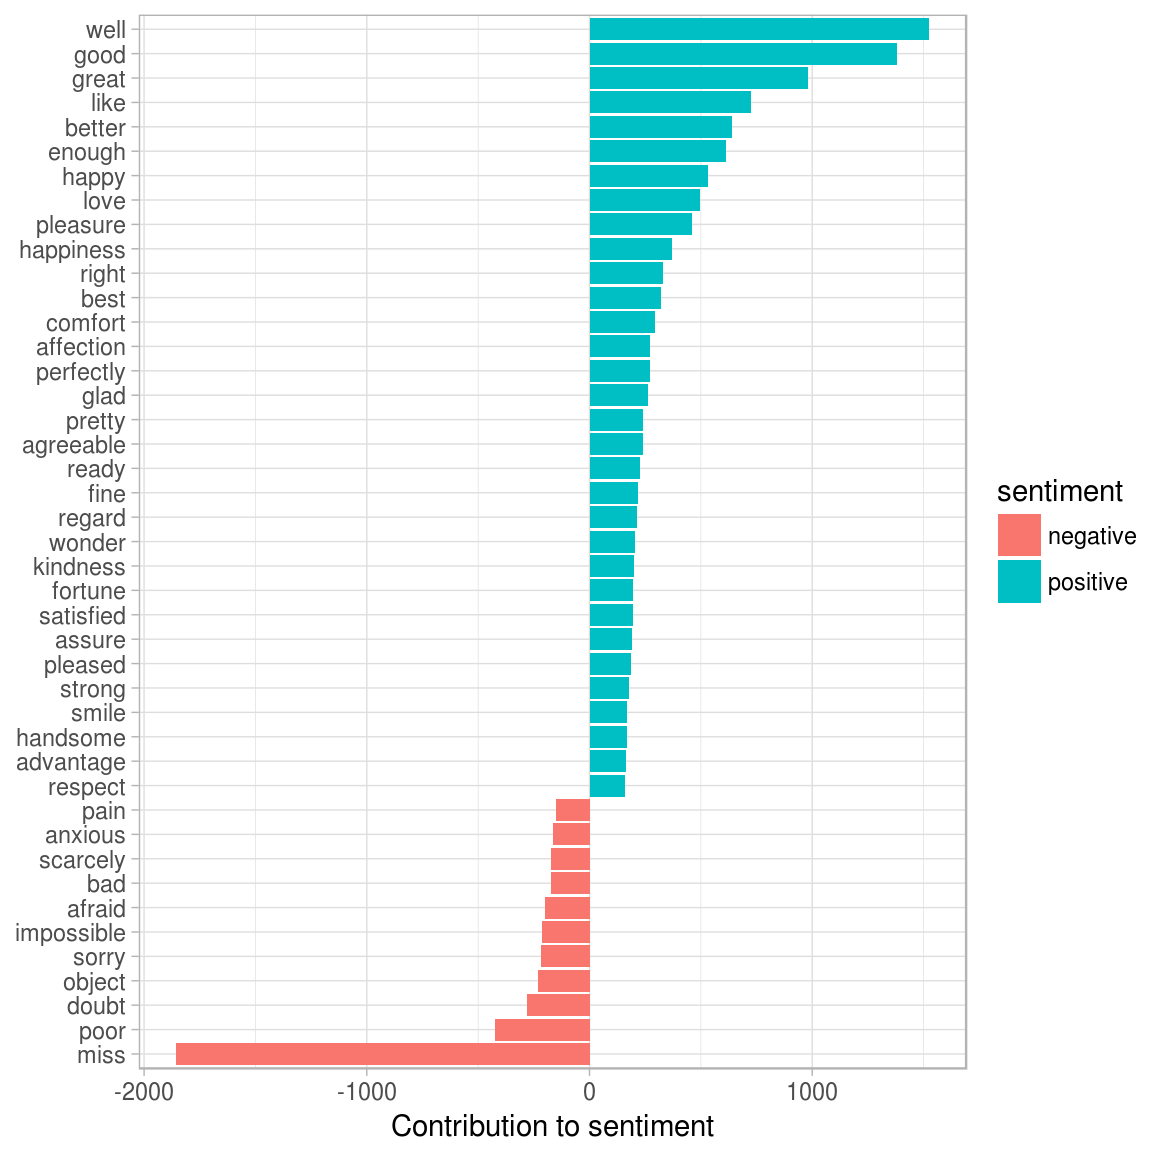
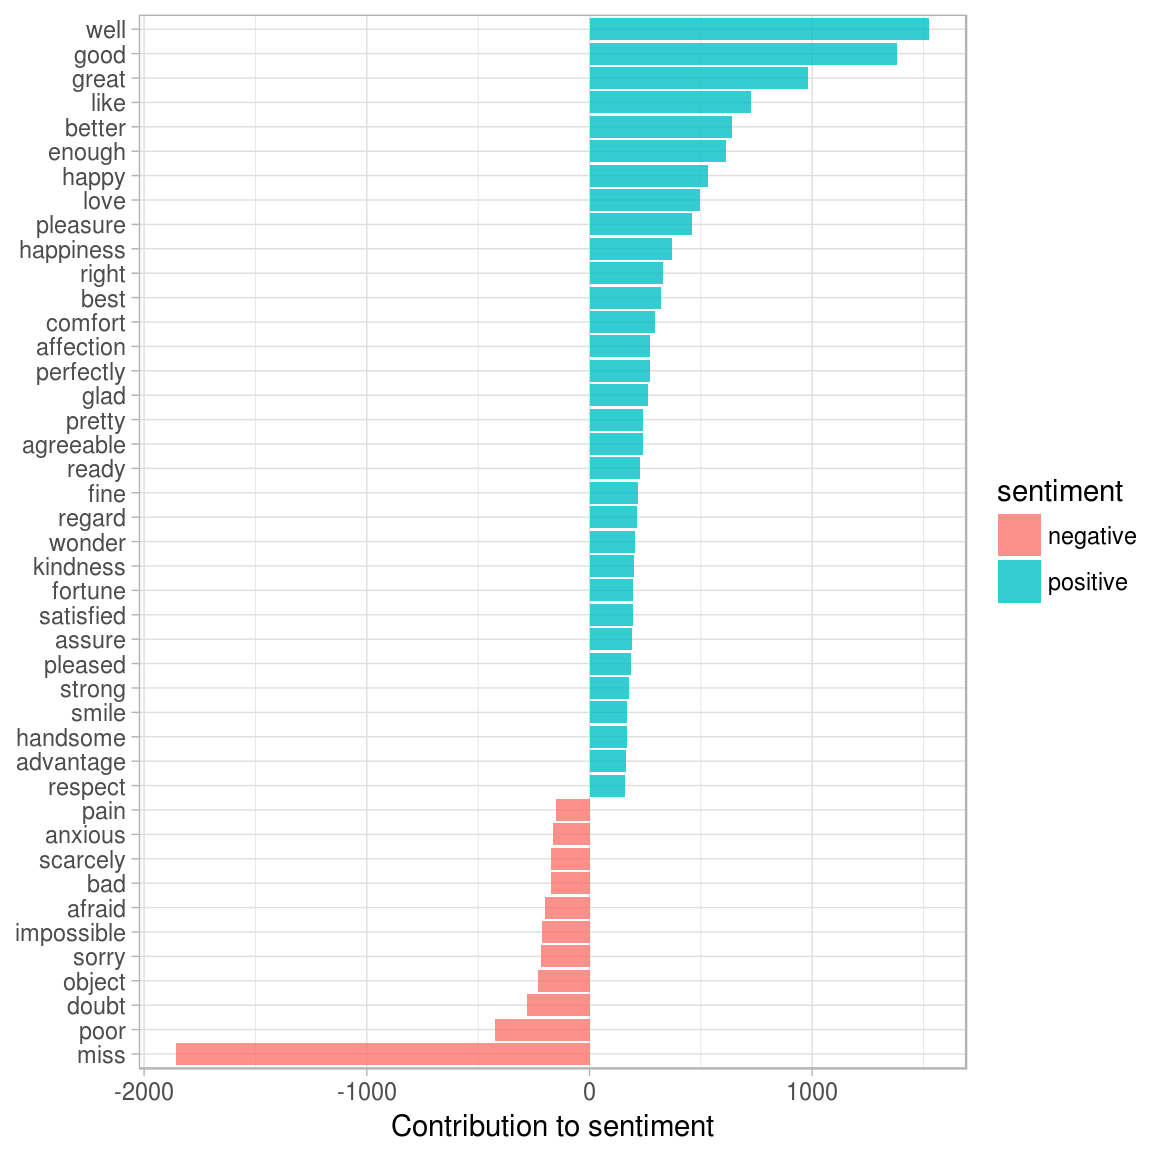
Updating book (104)

Changed region(s): [[0.1562, 0.0, 0.8125, 0.9375], [0.8438, 0.4375, 0.9062, 0.5312]]

diff --git a/sentiment.html b/sentiment.html
@@ -283,7 +283,7 @@ janeaustensentiment &lt;-<span class="st"> </span>tidy_books %&gt;%
 <div class="sourceCode"><pre class="sourceCode r"><code class="sourceCode r"><span class="kw">library</span>(ggplot2)
 
 <span class="kw">ggplot</span>(janeaustensentiment, <span class="kw">aes</span>(index, sentiment, <span class="dt">fill =</span> book)) +
-<span class="st">        </span><span class="kw">geom_bar</span>(<span class="dt">stat =</span> <span class="st">&quot;identity&quot;</span>, <span class="dt">show.legend =</span> <span class="ot">FALSE</span>) +
+<span class="st">        </span><span class="kw">geom_bar</span>(<span class="dt">alpha =</span> <span class="fl">0.8</span>, <span class="dt">stat =</span> <span class="st">&quot;identity&quot;</span>, <span class="dt">show.legend =</span> <span class="ot">FALSE</span>) +
 <span class="st">        </span><span class="kw">facet_wrap</span>(~book, <span class="dt">ncol =</span> <span class="dv">2</span>, <span class="dt">scales =</span> <span class="st">&quot;free_x&quot;</span>)</code></pre></div>
 <p><img src="03-sentiment-analysis_files/figure-html/sentimentplot-1.png" width="864" /></p>
 <p>We can see here how the plot of each novel changes toward more positive or negative sentiment over the trajectory of the story.</p>
@@ -318,7 +318,7 @@ bing_word_counts</code></pre></div>
 <span class="st">  </span><span class="kw">mutate</span>(<span class="dt">n =</span> <span class="kw">ifelse</span>(sentiment ==<span class="st"> &quot;negative&quot;</span>, -n, n)) %&gt;%
 <span class="st">  </span><span class="kw">mutate</span>(<span class="dt">word =</span> <span class="kw">reorder</span>(word, n)) %&gt;%
 <span class="st">  </span><span class="kw">ggplot</span>(<span class="kw">aes</span>(word, n, <span class="dt">fill =</span> sentiment)) +
-<span class="st">  </span><span class="kw">geom_bar</span>(<span class="dt">stat =</span> <span class="st">&quot;identity&quot;</span>) +
+<span class="st">  </span><span class="kw">geom_bar</span>(<span class="dt">alpha =</span> <span class="fl">0.8</span>, <span class="dt">stat =</span> <span class="st">&quot;identity&quot;</span>) +
 <span class="st">  </span><span class="kw">labs</span>(<span class="dt">y =</span> <span class="st">&quot;Contribution to sentiment&quot;</span>,
        <span class="dt">x =</span> <span class="ot">NULL</span>) +
 <span class="st">  </span><span class="kw">coord_flip</span>()</code></pre></div>
@@ -336,7 +336,7 @@ tidy_books %&gt;%
 <span class="st">  </span><span class="kw">count</span>(word) %&gt;%
 <span class="st">  </span><span class="kw">with</span>(<span class="kw">wordcloud</span>(word, n, <span class="dt">max.words =</span> <span class="dv">100</span>))</code></pre></div>
 <p><img src="03-sentiment-analysis_files/figure-html/firstwordcloud-1.png" width="576" /></p>
-<p>In other functions, such as <code>comparison.cloud</code>, you may need to turn it into a matrix with reshape2’s <code>acast</code>. Let’s do the sentiment analysis to tag positive and negative words using an inner join, then find the most common positive and negative words. Until the step where we need to send the data to <code>comparison.cloud</code>, this can all be done with joins, piping, and dplyr because our data is in tidy format.</p>
+<p>In other functions, such as <code>comparison.cloud</code>, you may need to turn the data frame into a matrix with reshape2’s <code>acast</code>. Let’s do the sentiment analysis to tag positive and negative words using an inner join, then find the most common positive and negative words. Until the step where we need to send the data to <code>comparison.cloud</code>, this can all be done with joins, piping, and dplyr because our data is in tidy format.</p>
 <div class="sourceCode"><pre class="sourceCode r"><code class="sourceCode r"><span class="kw">library</span>(reshape2)
 
 tidy_books %&gt;%
@@ -362,20 +362,24 @@ tidy_books %&gt;%
 <p>The sentence tokenizing does seem to have a bit of trouble with UTF-8 encoded text, especially with sections of dialogue; it does much better with punctuation in ASCII. One possibility, if this is important, is to try using <code>iconv()</code>, with something like <code>iconv(text, to = 'latin1')</code> in a mutate statement before unnesting.</p>
 <p>Another option in <code>unnest_tokens</code> is to split into tokens using a regex pattern. We could use this, for example, to split the text of Jane Austen’s novels into a data frame by chapter.</p>
 <div class="sourceCode"><pre class="sourceCode r"><code class="sourceCode r">austen_chapters &lt;-<span class="st"> </span><span class="kw">austen_books</span>() %&gt;%
+<span class="st">  </span><span class="kw">mutate</span>(<span class="dt">book =</span> <span class="kw">factor</span>(book, <span class="dt">levels =</span> <span class="kw">unique</span>(book))) %&gt;%
 <span class="st">  </span><span class="kw">group_by</span>(book) %&gt;%
 <span class="st">  </span><span class="kw">unnest_tokens</span>(chapter, text, <span class="dt">token =</span> <span class="st">&quot;regex&quot;</span>, 
                 <span class="dt">pattern =</span> <span class="st">&quot;Chapter|CHAPTER [</span><span class="ch">\\</span><span class="st">dIVXLC]&quot;</span>) %&gt;%
 <span class="st">  </span><span class="kw">ungroup</span>()
-austen_chapters %&gt;%<span class="st"> </span><span class="kw">group_by</span>(book) %&gt;%<span class="st"> </span><span class="kw">summarise</span>(<span class="dt">chapters =</span> <span class="kw">n</span>())</code></pre></div>
+
+austen_chapters %&gt;%<span class="st"> </span>
+<span class="st">  </span><span class="kw">group_by</span>(book) %&gt;%<span class="st"> </span>
+<span class="st">  </span><span class="kw">summarise</span>(<span class="dt">chapters =</span> <span class="kw">n</span>())</code></pre></div>
 <pre><code>## # A tibble: 6 × 2
 ##                  book chapters
 ##                &lt;fctr&gt;    &lt;int&gt;
-## 1                Emma       56
-## 2      Mansfield Park       49
-## 3    Northanger Abbey       32
-## 4          Persuasion       25
-## 5   Pride &amp; Prejudice       62
-## 6 Sense &amp; Sensibility       51</code></pre>
+## 1 Sense &amp; Sensibility       51
+## 2   Pride &amp; Prejudice       62
+## 3      Mansfield Park       49
+## 4                Emma       56
+## 5    Northanger Abbey       32
+## 6          Persuasion       25</code></pre>
 <p>We have recovered the correct number of chapters in each novel (plus an “extra” row for each novel title). In this data frame, each row corresponds to one chapter.</p>
 <p>Near the beginning of this vignette, we used a similar regex to find where all the chapters were in Austen’s novels for a tidy data frame organized by one-word-per-row. We can use tidy text analysis to ask questions such as what are the most negative chapters in each of Jane Austen’s novels? First, let’s get the list of negative words from the Bing lexicon. Second, let’s make a dataframe of how many words are in each chapter so we can normalize for the length of chapters. Then, let’s find the number of negative words in each chapter and divide by the total words in each chapter. Which chapter has the highest proportion of negative words?</p>
 <div class="sourceCode"><pre class="sourceCode r"><code class="sourceCode r">bingnegative &lt;-<span class="st"> </span>sentiments %&gt;%
@@ -386,24 +390,24 @@ wordcounts &lt;-<span class="st"> </span>tidy_books %&gt;%
 <span class="st">  </span><span class="kw">summarize</span>(<span class="dt">words =</span> <span class="kw">n</span>())
 
 tidy_books %&gt;%
+<span class="st">  </span><span class="kw">mutate</span>(<span class="dt">book =</span> <span class="kw">factor</span>(book, <span class="dt">levels =</span> <span class="kw">unique</span>(book))) %&gt;%
 <span class="st">  </span><span class="kw">semi_join</span>(bingnegative) %&gt;%
 <span class="st">  </span><span class="kw">group_by</span>(book, chapter) %&gt;%
 <span class="st">  </span><span class="kw">summarize</span>(<span class="dt">negativewords =</span> <span class="kw">n</span>()) %&gt;%
 <span class="st">  </span><span class="kw">left_join</span>(wordcounts, <span class="dt">by =</span> <span class="kw">c</span>(<span class="st">&quot;book&quot;</span>, <span class="st">&quot;chapter&quot;</span>)) %&gt;%
 <span class="st">  </span><span class="kw">mutate</span>(<span class="dt">ratio =</span> negativewords/words) %&gt;%
 <span class="st">  </span><span class="kw">filter</span>(chapter !=<span class="st"> </span><span class="dv">0</span>) %&gt;%
-<span class="st">  </span><span class="kw">top_n</span>(<span class="dv">1</span>)</code></pre></div>
-<pre><code>## Source: local data frame [6 x 5]
-## Groups: book [6]
-## 
+<span class="st">  </span><span class="kw">top_n</span>(<span class="dv">1</span>) %&gt;%
+<span class="st">  </span>ungroup</code></pre></div>
+<pre><code>## # A tibble: 6 × 5
 ##                  book chapter negativewords words      ratio
-##                &lt;fctr&gt;   &lt;int&gt;         &lt;int&gt; &lt;int&gt;      &lt;dbl&gt;
-## 1                Emma      15           151  3340 0.04520958
-## 2      Mansfield Park      46           173  3685 0.04694708
-## 3    Northanger Abbey      21           149  2982 0.04996647
-## 4          Persuasion       4            62  1807 0.03431101
-## 5   Pride &amp; Prejudice      34           111  2104 0.05275665
-## 6 Sense &amp; Sensibility      43           161  3405 0.04728341</code></pre>
+##                 &lt;chr&gt;   &lt;int&gt;         &lt;int&gt; &lt;int&gt;      &lt;dbl&gt;
+## 1 Sense &amp; Sensibility      43           161  3405 0.04728341
+## 2   Pride &amp; Prejudice      34           111  2104 0.05275665
+## 3      Mansfield Park      46           173  3685 0.04694708
+## 4                Emma      15           151  3340 0.04520958
+## 5    Northanger Abbey      21           149  2982 0.04996647
+## 6          Persuasion       4            62  1807 0.03431101</code></pre>
 <p>These are the chapters with the most sad words in each book, normalized for number of words in the chapter. What is happening in these chapters? In Chapter 43 of <em>Sense and Sensibility</em> Marianne is seriously ill, near death, and in Chapter 34 of <em>Pride and Prejudice</em> Mr. Darcy proposes for the first time (so badly!). Chapter 46 of <em>Mansfield Park</em> is almost the end, when everyone learns of Henry’s scandalous adultery, Chapter 15 of <em>Emma</em> is when horrifying Mr. Elton proposes, and in Chapter 21 of <em>Northanger Abbey</em> Catherine is deep in her Gothic faux fantasy of murder, etc. Chapter 4 of <em>Persuasion</em> is when the reader gets the full flashback of Anne refusing Captain Wentworth and how sad she was and what a terrible mistake she realized it to be.</p>
 
 </div>

diff --git a/03-sentiment-analysis.md b/03-sentiment-analysis.md
@@ -112,7 +112,7 @@ Now we can plot these sentiment scores across the plot trajectory of each novel.
 library(ggplot2)
 
 ggplot(janeaustensentiment, aes(index, sentiment, fill = book)) +
-        geom_bar(stat = "identity", show.legend = FALSE) +
+        geom_bar(alpha = 0.8, stat = "identity", show.legend = FALSE) +
         facet_wrap(~book, ncol = 2, scales = "free_x")
 ```
 
@@ -162,7 +162,7 @@ bing_word_counts %>%
   mutate(n = ifelse(sentiment == "negative", -n, n)) %>%
   mutate(word = reorder(word, n)) %>%
   ggplot(aes(word, n, fill = sentiment)) +
-  geom_bar(stat = "identity") +
+  geom_bar(alpha = 0.8, stat = "identity") +
   labs(y = "Contribution to sentiment",
        x = NULL) +
   coord_flip()
@@ -190,7 +190,7 @@ tidy_books %>%
 
 <img src="03-sentiment-analysis_files/figure-html/firstwordcloud-1.png" width="576" />
 
-In other functions, such as `comparison.cloud`, you may need to turn it into a matrix with reshape2's `acast`. Let's do the sentiment analysis to tag positive and negative words using an inner join, then find the most common positive and negative words. Until the step where we need to send the data to `comparison.cloud`, this can all be done with joins, piping, and dplyr because our data is in tidy format.
+In other functions, such as `comparison.cloud`, you may need to turn the data frame into a matrix with reshape2's `acast`. Let's do the sentiment analysis to tag positive and negative words using an inner join, then find the most common positive and negative words. Until the step where we need to send the data to `comparison.cloud`, this can all be done with joins, piping, and dplyr because our data is in tidy format.
 
 
 ```r
@@ -238,23 +238,27 @@ Another option in `unnest_tokens` is to split into tokens using a regex pattern.
 
 ```r
 austen_chapters <- austen_books() %>%
+  mutate(book = factor(book, levels = unique(book))) %>%
   group_by(book) %>%
   unnest_tokens(chapter, text, token = "regex", 
                 pattern = "Chapter|CHAPTER [\\dIVXLC]") %>%
   ungroup()
-austen_chapters %>% group_by(book) %>% summarise(chapters = n())
+
+austen_chapters %>% 
+  group_by(book) %>% 
+  summarise(chapters = n())
 ```
 
 ```
 ## # A tibble: 6 × 2
 ##                  book chapters
 ##                <fctr>    <int>
-## 1                Emma       56
-## 2      Mansfield Park       49
-## 3    Northanger Abbey       32
-## 4          Persuasion       25
-## 5   Pride & Prejudice       62
-## 6 Sense & Sensibility       51
+## 1 Sense & Sensibility       51
+## 2   Pride & Prejudice       62
+## 3      Mansfield Park       49
+## 4                Emma       56
+## 5    Northanger Abbey       32
+## 6          Persuasion       25
 ```
 
 We have recovered the correct number of chapters in each novel (plus an "extra" row for each novel title). In this data frame, each row corresponds to one chapter.
@@ -271,27 +275,27 @@ wordcounts <- tidy_books %>%
   summarize(words = n())
 
 tidy_books %>%
+  mutate(book = factor(book, levels = unique(book))) %>%
   semi_join(bingnegative) %>%
   group_by(book, chapter) %>%
   summarize(negativewords = n()) %>%
   left_join(wordcounts, by = c("book", "chapter")) %>%
   mutate(ratio = negativewords/words) %>%
   filter(chapter != 0) %>%
-  top_n(1)
+  top_n(1) %>%
+  ungroup
 ```
 
 ```
-## Source: local data frame [6 x 5]
-## Groups: book [6]
-## 
+## # A tibble: 6 × 5
 ##                  book chapter negativewords words      ratio
-##                <fctr>   <int>         <int> <int>      <dbl>
-## 1                Emma      15           151  3340 0.04520958
-## 2      Mansfield Park      46           173  3685 0.04694708
-## 3    Northanger Abbey      21           149  2982 0.04996647
-## 4          Persuasion       4            62  1807 0.03431101
-## 5   Pride & Prejudice      34           111  2104 0.05275665
-## 6 Sense & Sensibility      43           161  3405 0.04728341
+##                 <chr>   <int>         <int> <int>      <dbl>
+## 1 Sense & Sensibility      43           161  3405 0.04728341
+## 2   Pride & Prejudice      34           111  2104 0.05275665
+## 3      Mansfield Park      46           173  3685 0.04694708
+## 4                Emma      15           151  3340 0.04520958
+## 5    Northanger Abbey      21           149  2982 0.04996647
+## 6          Persuasion       4            62  1807 0.03431101
 ```
 
 These are the chapters with the most sad words in each book, normalized for number of words in the chapter. What is happening in these chapters? In Chapter 43 of *Sense and Sensibility* Marianne is seriously ill, near death, and in Chapter 34 of *Pride and Prejudice* Mr. Darcy proposes for the first time (so badly!). Chapter 46 of *Mansfield Park* is almost the end, when everyone learns of Henry's scandalous adultery, Chapter 15 of *Emma* is when horrifying Mr. Elton proposes, and in Chapter 21 of *Northanger Abbey* Catherine is deep in her Gothic faux fantasy of murder, etc. Chapter 4 of *Persuasion* is when the reader gets the full flashback of Anne refusing Captain Wentworth and how sad she was and what a terrible mistake she realized it to be.
